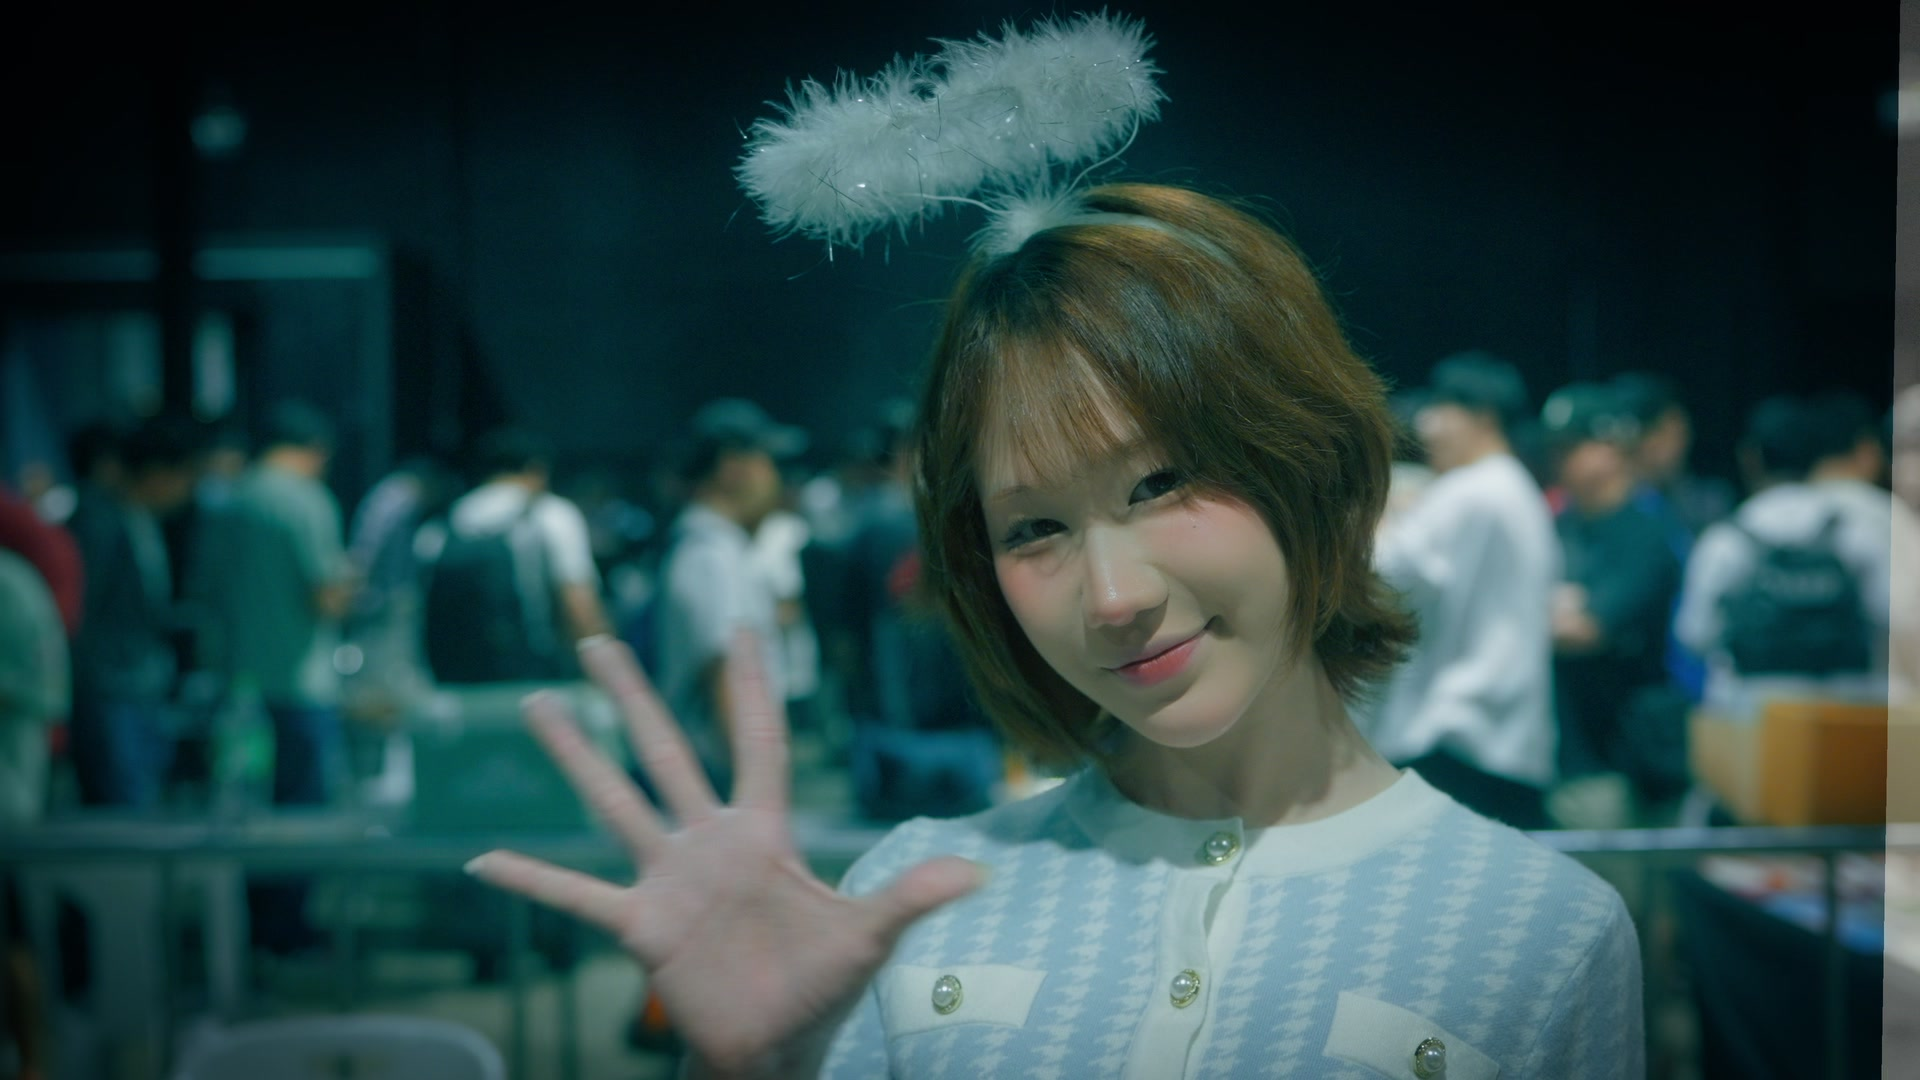
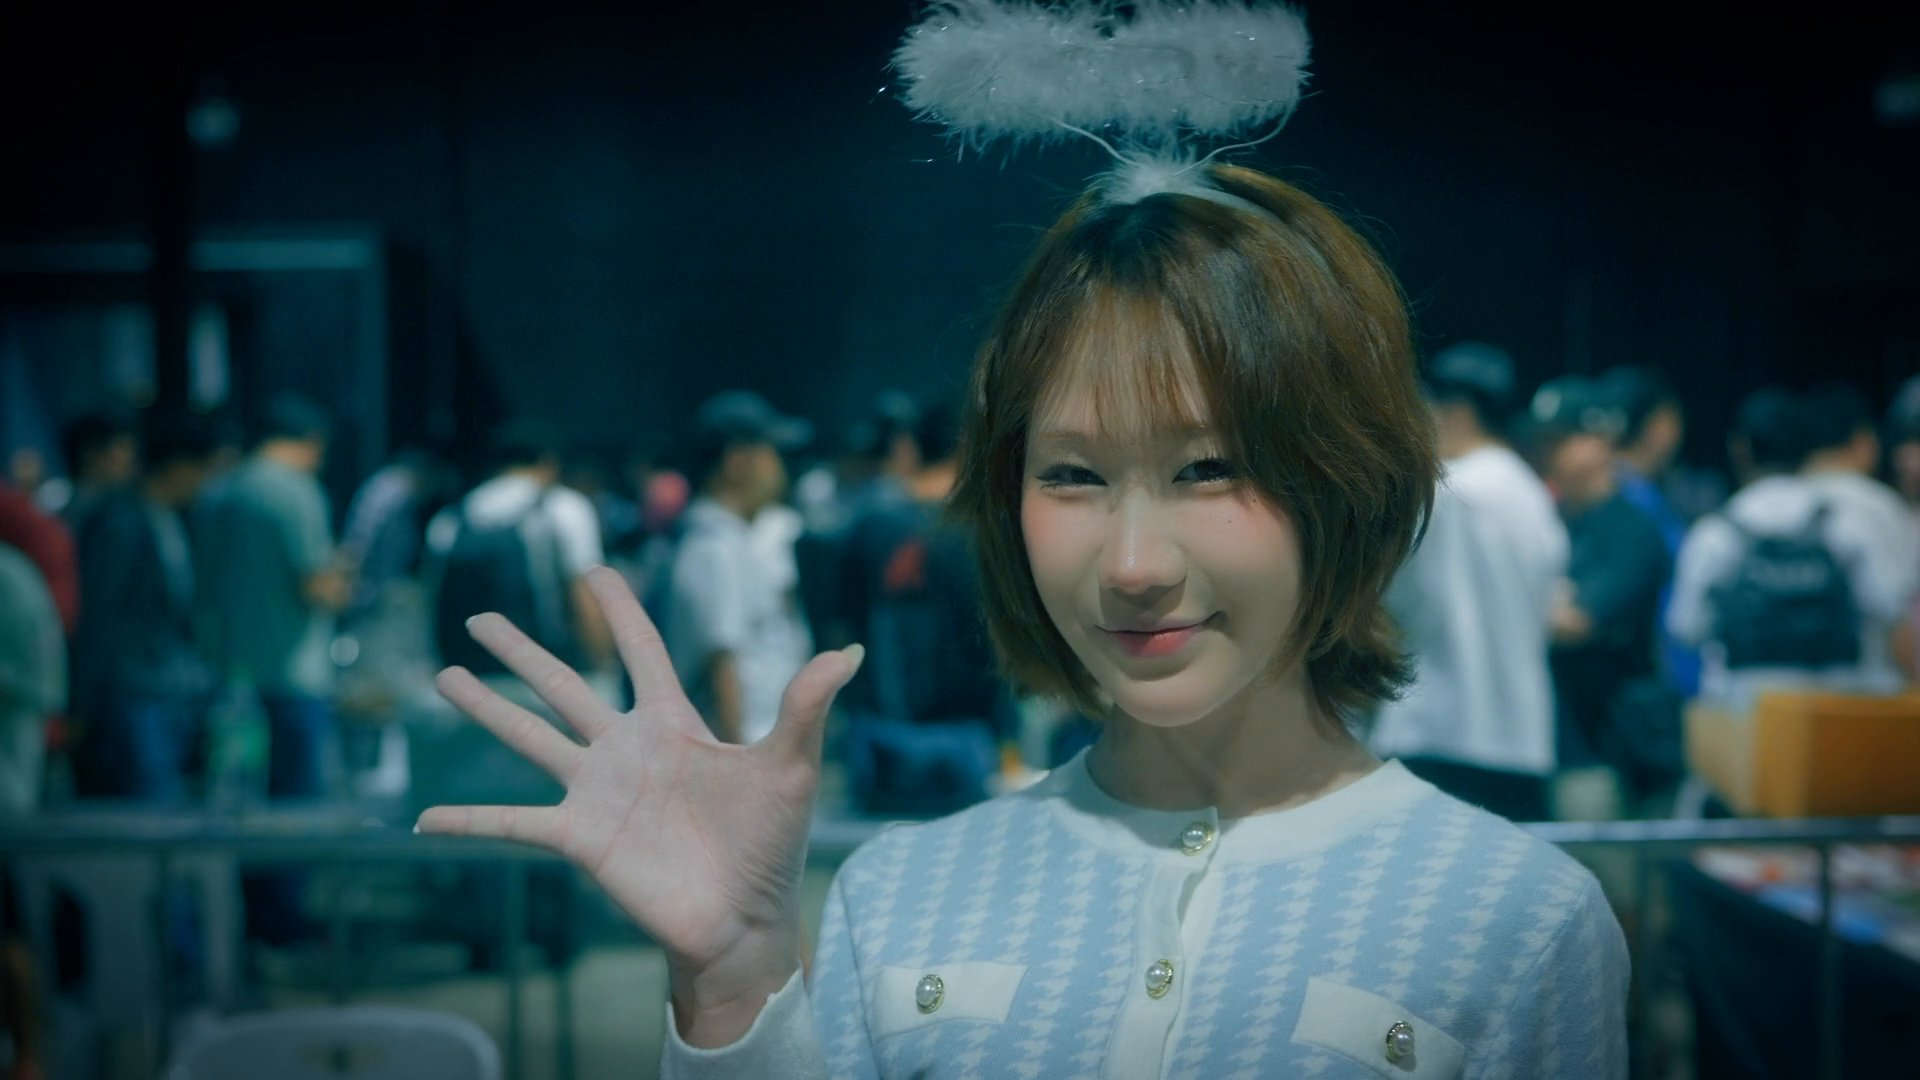
Editorial hero: poster frame after the wipe, drop masthead rule touching the video
Claude-Session: https://claude.ai/code/session_01Jj6aUd9qXb1aS1s6wmiHVb

diff --git a/editorial.html b/editorial.html
@@ -10,7 +10,7 @@
 *{box-sizing:border-box}html{scroll-behavior:smooth;background:var(--paper);-webkit-text-size-adjust:100%;text-size-adjust:100%}body{margin:0;background:var(--paper);color:var(--ink);font-family:var(--font-text)}a{color:inherit}button{font:inherit}
 .top{position:sticky;top:0;z-index:20;height:64px;display:flex;align-items:center;gap:20px;padding:0 24px;border-bottom:1px solid var(--rule);background:rgba(238,231,218,.93);backdrop-filter:blur(8px)}
 .logo{font:700 20px/1 var(--font-text);}.top>div:first-child{display:flex;align-items:center}.menu{display:flex;gap:18px}.menu a{font:600 12px/1 var(--font-text);text-decoration:none;}.trial{border:1px solid var(--ink);background:var(--ink);color:var(--paper);padding:10px 14px;cursor:pointer;font:700 12px/1 var(--font-text);}
-.mast{display:grid;grid-template-columns:1.1fr .9fr;gap:6vw;max-width:var(--max);margin:auto;padding:12vh 28px 10vh;border-bottom:1px solid var(--rule)}
+.mast{display:grid;grid-template-columns:1.1fr .9fr;gap:6vw;max-width:var(--max);margin:auto;padding:12vh 28px 10vh}
 .mast h1{font-size:clamp(64px,9vw,132px);line-height:.9;font-weight:400;margin:0 0 28px;max-width:none;width:max-content}.mast .dek{font-size:clamp(19px,2vw,27px);line-height:1.55;max-width:32ch;}.mast .aside{align-self:end;border-top:1px solid var(--rule);padding-top:20px;font-size:14px;line-height:1.65;max-width:48ch;color:var(--muted);}
 .cover{position:relative;min-height:72svh;overflow:hidden;margin:0 28px;border-bottom:1px solid var(--rule)}.cover img,.cover video{width:100%;height:100%;position:absolute;inset:0;object-fit:cover;filter:saturate(.9) contrast(1.03)}
 .chapter.chapter--continuation{padding-top:var(--section-seam)}

diff --git a/editorial/index.html b/editorial/index.html
@@ -10,7 +10,7 @@
 *{box-sizing:border-box}html{scroll-behavior:smooth;background:var(--paper);-webkit-text-size-adjust:100%;text-size-adjust:100%}body{margin:0;background:var(--paper);color:var(--ink);font-family:var(--font-text)}a{color:inherit}button{font:inherit}
 .top{position:sticky;top:0;z-index:20;height:64px;display:flex;align-items:center;gap:20px;padding:0 24px;border-bottom:1px solid var(--rule);background:rgba(238,231,218,.93);backdrop-filter:blur(8px)}
 .logo{font:700 20px/1 var(--font-text);}.top>div:first-child{display:flex;align-items:center}.menu{display:flex;gap:18px}.menu a{font:600 12px/1 var(--font-text);text-decoration:none;}.trial{border:1px solid var(--ink);background:var(--ink);color:var(--paper);padding:10px 14px;cursor:pointer;font:700 12px/1 var(--font-text);}
-.mast{display:grid;grid-template-columns:1.1fr .9fr;gap:6vw;max-width:var(--max);margin:auto;padding:12vh 28px 10vh;border-bottom:1px solid var(--rule)}
+.mast{display:grid;grid-template-columns:1.1fr .9fr;gap:6vw;max-width:var(--max);margin:auto;padding:12vh 28px 10vh}
 .mast h1{font-size:clamp(64px,9vw,132px);line-height:.9;font-weight:400;margin:0 0 28px;max-width:none;width:max-content}.mast .dek{font-size:clamp(19px,2vw,27px);line-height:1.55;max-width:32ch;}.mast .aside{align-self:end;border-top:1px solid var(--rule);padding-top:20px;font-size:14px;line-height:1.65;max-width:48ch;color:var(--muted);}
 .cover{position:relative;min-height:72svh;overflow:hidden;margin:0 28px;border-bottom:1px solid var(--rule)}.cover img,.cover video{width:100%;height:100%;position:absolute;inset:0;object-fit:cover;filter:saturate(.9) contrast(1.03)}
 .chapter.chapter--continuation{padding-top:var(--section-seam)}

diff --git a/docs/HERO_VIDEO_2026-10-12.md b/docs/HERO_VIDEO_2026-10-12.md
@@ -12,7 +12,7 @@ Foundation: Web Commerce Design. Direction: existing Editorial Studio with the d
 - Source: 1920 × 1080, 25 fps, 3.92 seconds, HEVC full-range BT.709 plus PCM audio.
 - Shared derivative prepared by the parallel cinematic Dev: H.264 High Level 4.1, yuv420p, limited-range BT.709 converted from full-range source, CRF 18, faststart; no audio. Source timing and embedded color reveal remain unchanged.
[3 lines of base64/hex data omitted]
 
 ## Behavior
 
@@ -25,3 +25,7 @@ Hero caption identifies the owner-supplied video rather than describing it as st
 Fresh Chrome runtime at widths 320, 390, 760, 761, 981, 1024, 1280 and 1440: zero document overflow; actual video decode 1920 × 1080, readyState 4, advancing currentTime. Pause/play and reduced-motion initial load tested. Fresh desktop/mobile renders inspected. Original color treatment is not filtered by CSS. Static anti-slop: zero findings, zero HIGH. Exact browser taste_audit: zero HIGH and one LOW advisory about four geometric section seams; unchanged chapter-internal padding and rules maintain visible separation. slop_tells: no measurable slop tells. Both HTML files remain byte-identical. `git diff --check` passes.
 
 Evidence directory: `QA_Evidence/Website/editorial-hero-video-dev-20261012/` in the EasyGrade project root. Independent P2 QA and source-free P3 are separate gates. Physical iPhone Safari: NOT RUN. Source/codec suitability is not a real-device PASS. No production readiness claim from P1 alone.
+
+## 2026-10-21 fix
+
+Owner report: something showed behind Moji. Causes found: (1) the 2.7-second poster frame still had the wipe edge, so a grey ungraded strip sat on the right edge; (2) the masthead's 1px bottom rule (narrower than the cover) sat flush on the video's top edge and read as a second layer. Fix: new poster frame after the wipe; the masthead bottom rule is removed so the cover edge is the divider.
